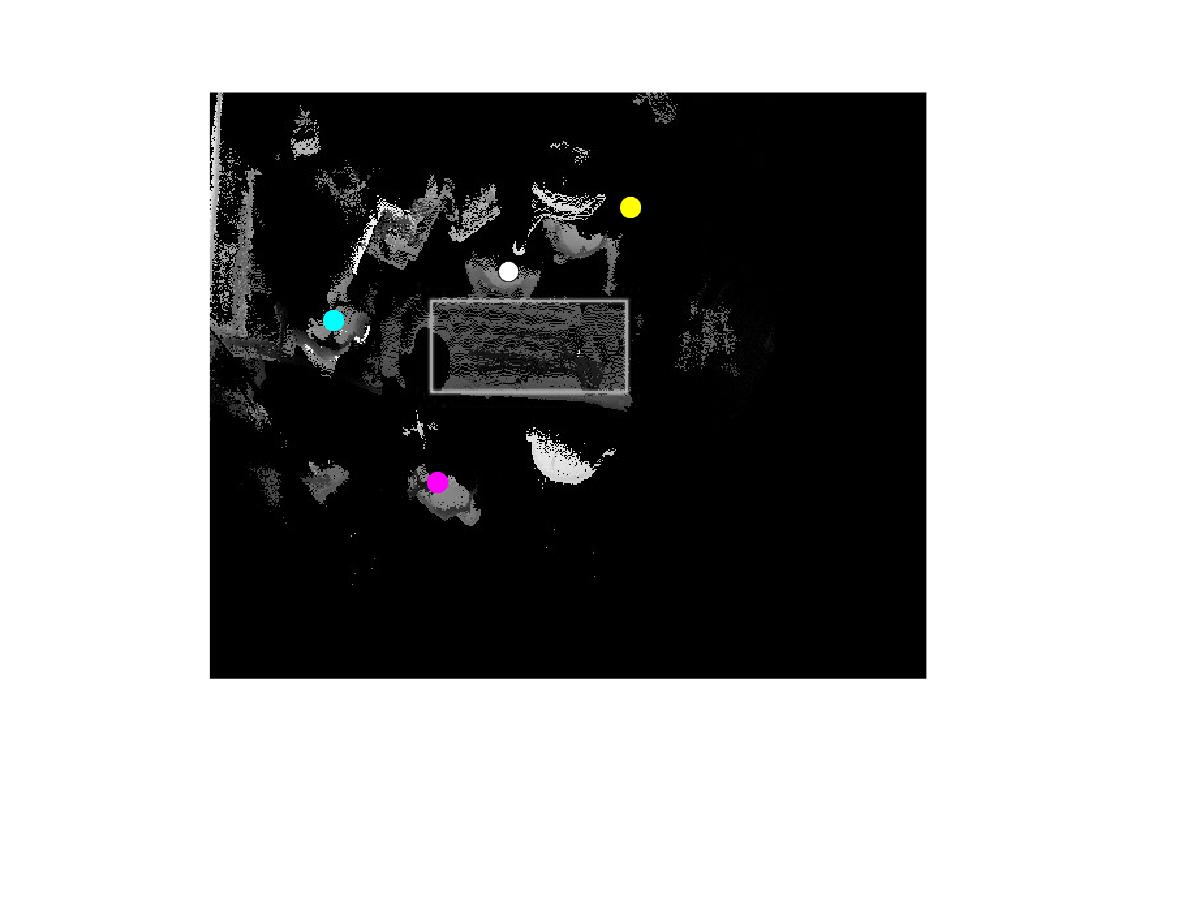
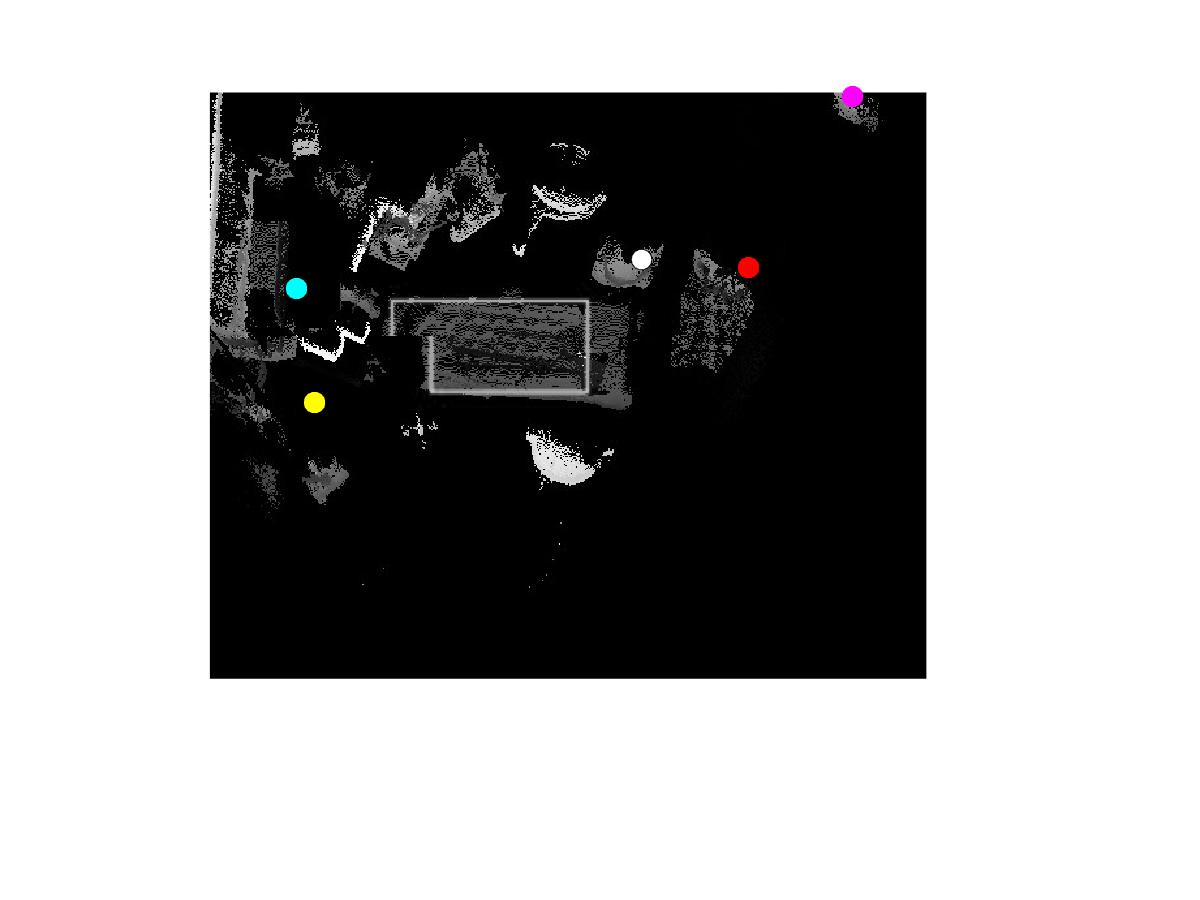
Added dynamic background enhancement

diff --git a/People Tracking/People_Flow_Plot_with_Dynamic_Background_Fix.m b/People Tracking/People_Flow_Plot_with_Dynamic_Background_Fix.m
@@ -72,6 +72,7 @@ end
 count=1;
 % load('Background.mat');
 tmpBG=imread(strcat('C:\Users\Xinyu Li\Google Drive\Data\heightview_1-5-2016_17-39-08\',bgImages(count).name));
+fixedBG=imread('C:\Users\Xinyu Li\Google Drive\Data\BG.png');
 tmpClearBG=flipud(fliplr(tmpBG));
 clearBG=tmpClearBG(1:450,251:800);
 for t=1:timeMax
@@ -80,15 +81,18 @@ for t=1:timeMax
        count=count+1;
        updateCoefficient=t;
        tmpBG=imread(strcat('C:\Users\Xinyu Li\Google Drive\Data\heightview_1-5-2016_17-39-08\',bgImages(count).name));
-       figureToPlot=figure(1);
-       BG=flipud(fliplr(tmpBG));
-       imshow(BG(1:450,251:800));
-       hold on
+%        figureToPlot=figure(1);
+       tmpBG=flipud(fliplr(tmpBG));
+       BG=tmpBG(1:450,251:800);
+%        imshow(BG(1:450,251:800));
+%        hold on
    else
-       BG=flipud(fliplr(tmpBG));
-       figureToPlot=figure(1);
-       imshow(BG(1:450,251:800));
-       hold on
+       tmpBG=imread(strcat('C:\Users\Xinyu Li\Google Drive\Data\heightview_1-5-2016_17-39-08\',bgImages(count).name));
+       tmpBG=flipud(fliplr(tmpBG));
+%        figureToPlot=figure(1);
+       BG=tmpBG(1:450,251:800);
+%        imshow(BG(1:450,251:800));
+%        hold on
    end
    
    % Reset the unused colors
@@ -101,6 +105,24 @@ for t=1:timeMax
        end
    end
    
+   % update background and remove people movement
+   indexP=find(peopleLocation(t,:,1));
+   axis([minX,maxX,minY,maxY]);
+   for p=1:length(indexP)
+       xtmp=200-peopleLocation(t,indexP(p),1);
+       ytmp=abs(450-peopleLocation(t,indexP(p),2));
+       
+       boundaryL=floor(max(1,xtmp-35)); % to left 35 pixels
+       boundaryR=ceil(min(size(BG,2),xtmp+35)); % to left 35 pixels
+       boundaryU=floor(max(1,ytmp-50)); % to up 50 pixels
+       boundaryD=ceil(min(size(BG,1),ytmp+30)); % to down 30 pixels
+       
+       BG(boundaryU:boundaryD,boundaryL:boundaryU)=clearBG(boundaryU:boundaryD,boundaryL:boundaryU);
+   end
+   figureToPlot=figure(1);
+   imshow(BG);
+   hold on
+
    % Plot dots in the mask
    indexP=find(peopleLocation(t,:,1));
    axis([minX,maxX,minY,maxY]);
